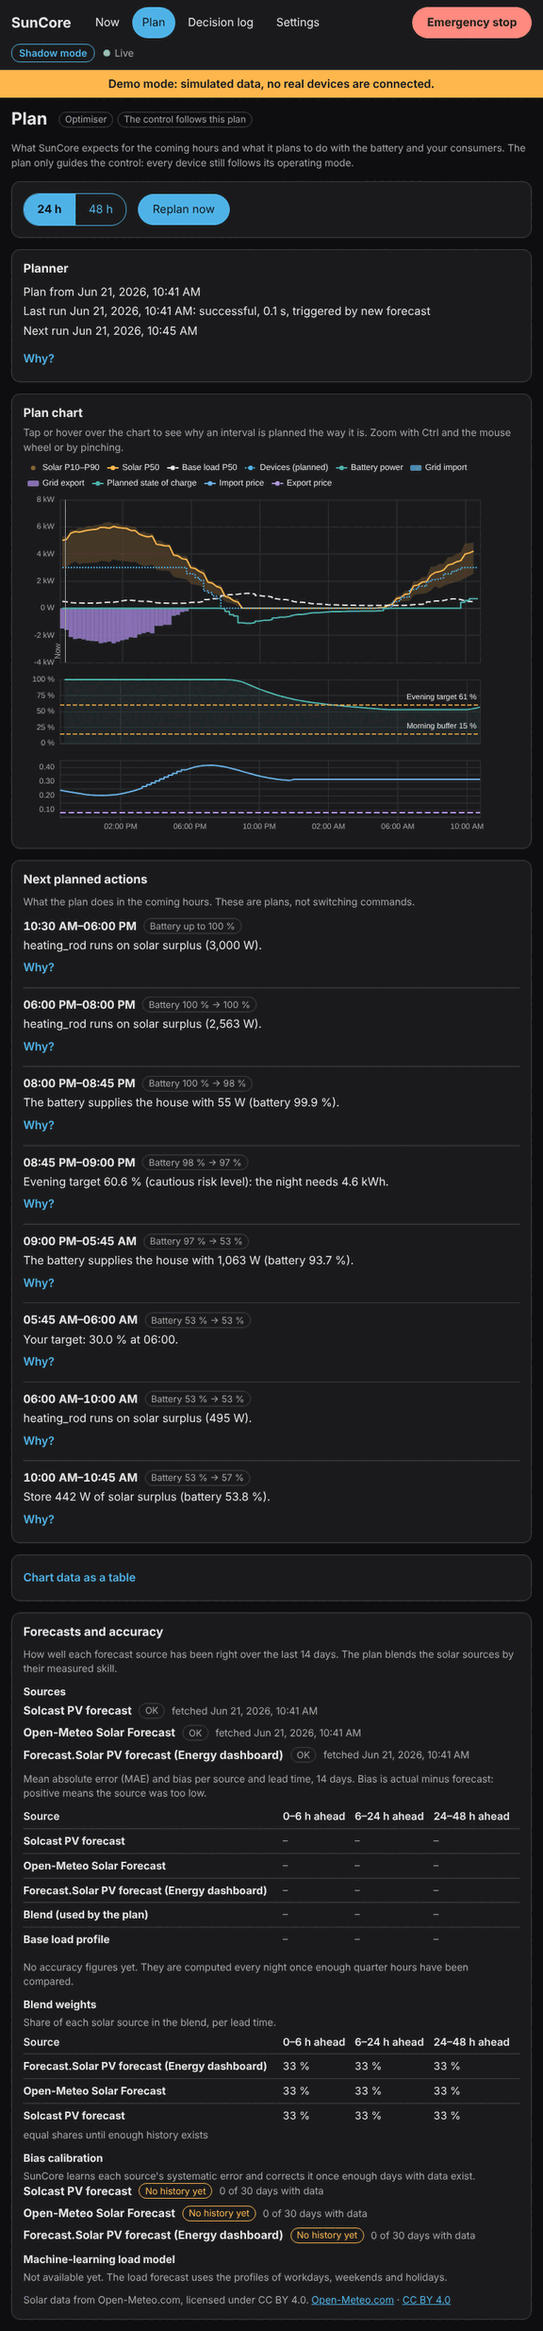
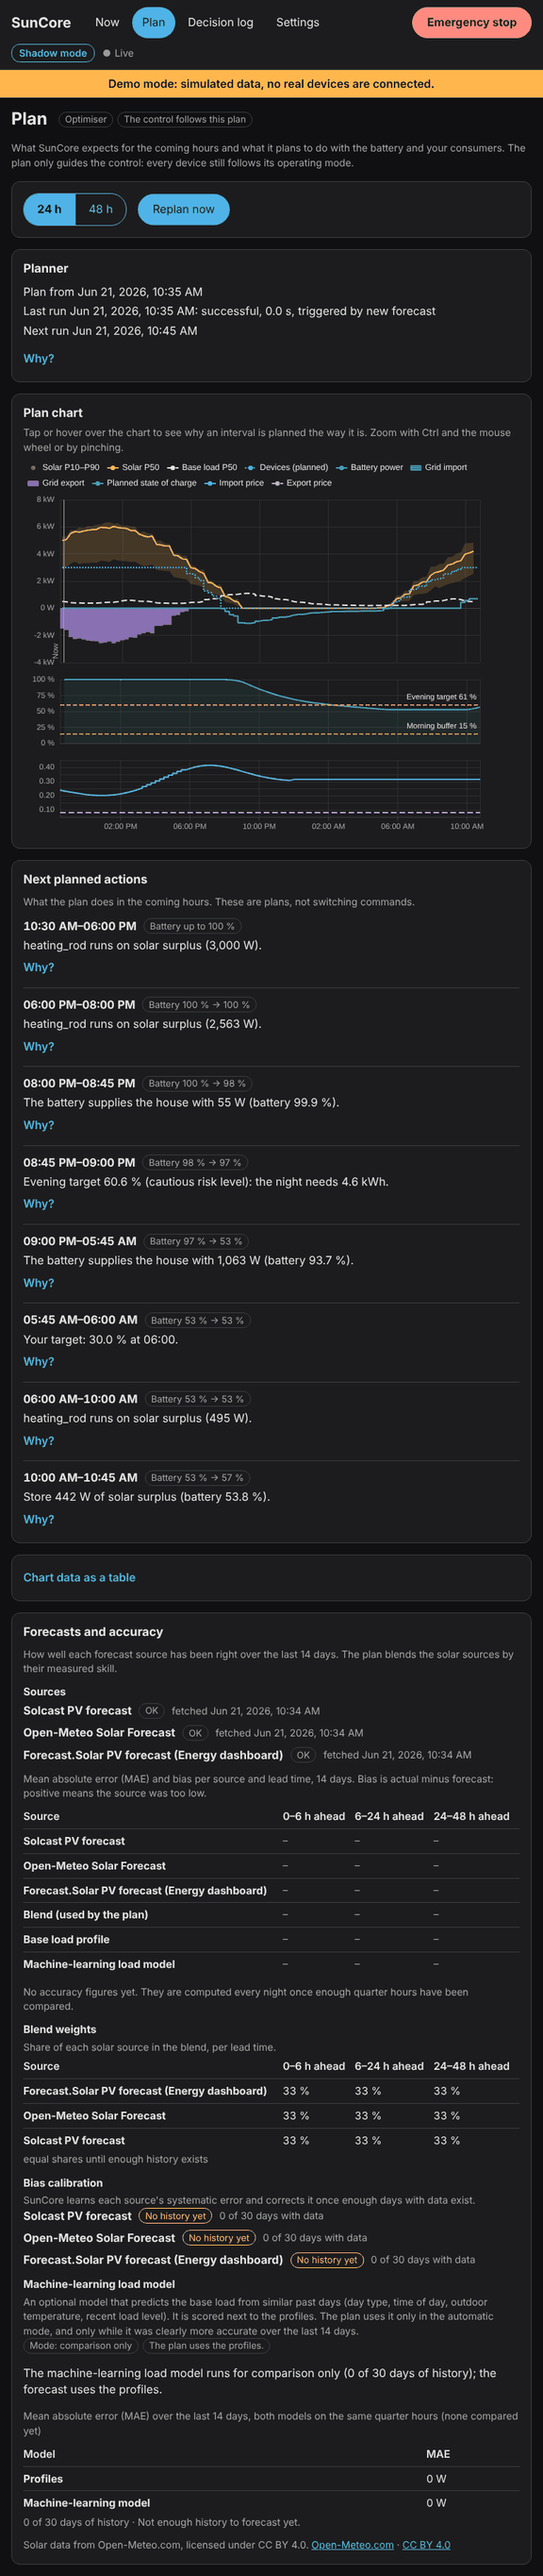
docs(screenshots): plan view and solar step with the ML load model panel
Finishes the review fixes of PR 4-I: the plan and solar-step screenshots
now show the "ML vs. profiles" section; STATUS records the finished review.

Claude-Session: https://claude.ai/code/session_01RQbeZhexv6pzTs62CY98E3

Changed region(s): [[0.0, 0.0, 1.0, 0.9976], [0.5625, 0.3117, 0.625, 0.3741]]

diff --git a/docs/STATUS.md b/docs/STATUS.md
@@ -39,6 +39,9 @@ test · **Branch:** `phase-4/i-ml-load` (stacked on `phase-4/h-ui-docs`)
     non-negative, on the grid, deterministic, every `auto` rule), `test_load_ml_service.py`
     (shadow/off/auto, fallback, window, nightly bookkeeping, stored scores), API, runtime, planner
     pass-through, Vitest panel and form.
+  - Review fixes (M1, M2, minors) complete; `./scripts/check.sh` green (4709 tests). Screenshots
+    `plan-tablet-*` and `wizard-pv-tablet-light-*` regenerated with the ML load model panel (the
+    phone `plan-*` images are not used by the docs and were left as they were).
 
 - **Phase 4 – PR 4-A (plan, WP1, WP2; branch `claude/zealous-mayer-j5oda9`)**:
   - Plan `docs/plans/phase-4.md` **revision 2 approved** (2026-10-16), incl. the merged concept
